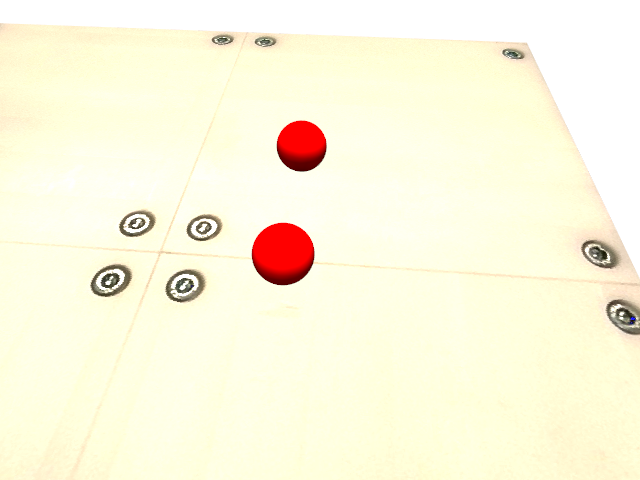
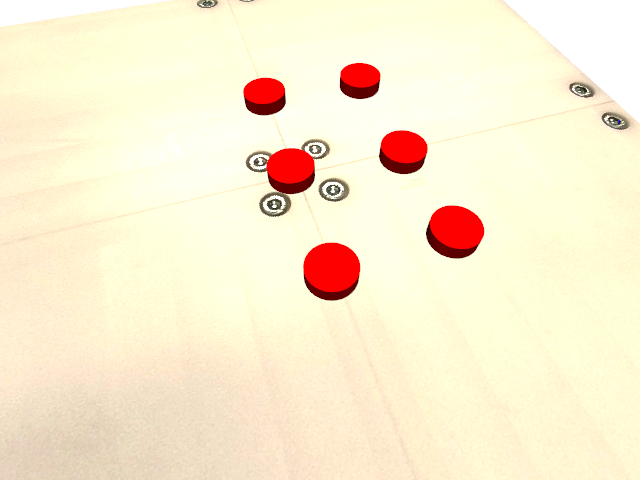
replace sphere by cylinder

diff --git a/collect_data.py b/collect_data.py
@@ -10,8 +10,9 @@ ORIGIN = np.array([0, 0, 0], dtype=float)
 
 # 在3D场景中放置一个红色小球和相机，并拍摄一张图像。
 def take_photo(
-        sphere_position_list,  # sphere_position (list or tuple): 小球的中心坐标，如 [x, y, z]。
-        sphere_radius,  # 小球半径
+        cylinder_position_list,
+        cylinder_radius,
+        cylinder_height,
         camera_position,  # camera_position (list or tuple): 相机的位置，如 [x, y, z]。
         focal_point,
         view_up,  # view_up (list or tuple): 定义相机上方的方向向量，如 [0, 0, 1] 表示Z轴向上。
@@ -23,7 +24,7 @@ def take_photo(
         filename  # 输出图像的文件名
     ):
 
-    assert len(sphere_position_list) > 0
+    assert len(cylinder_position_list) > 0
 
     # 创建一个空的绘图器（plotter）
     plotter = pv.Plotter(off_screen=True, window_size=image_size)
@@ -39,9 +40,14 @@ def take_photo(
     )
 
     # 2. 创建红色小球并添加到场景
-    for sphere_position in sphere_position_list:
-        sphere = pv.Sphere(radius=sphere_radius, center=sphere_position, phi_resolution=360, theta_resolution=360)
-        plotter.add_mesh(sphere, color='red')
+    for cylinder_position in cylinder_position_list:
+        cylinder = pv.Cylinder(radius=cylinder_radius, 
+                               height=cylinder_height,
+                               center=cylinder_position,
+                               resolution=360,
+                               direction=(0, 0, 1),
+                               capping=True)
+        plotter.add_mesh(cylinder, color='red')
 
     plane_texture = pv.read_texture(plane_texture_path)
     plane = pv.Plane(center=ORIGIN, direction=(0, 0, 1), i_size=plane_size, j_size=plane_size)
@@ -59,9 +65,9 @@ def take_photo(
     plotter.close()
 
 
-def is_sphere_in_frustum(
-    sphere_position,  # 小球中心坐标 [x, y, z]
-    sphere_radius,    # 小球半径
+def is_cylinder_in_frustum(
+    cylinder_position,  # 小球中心坐标 [x, y, z]
+    cylinder_radius,    # 小球半径
     camera_position,  # 相机位置 [x, y, z]
     focal_point,      # 相机焦点 [x, y, z]
     view_up,          # 相机上方向向量 [x, y, z]
@@ -74,7 +80,7 @@ def is_sphere_in_frustum(
     """
     aspect_ratio = image_size[0] / image_size[1]
     # 将输入转换为 numpy 数组
-    sphere_position = np.array(sphere_position, dtype=float)
+    cylinder_position = np.array(cylinder_position, dtype=float)
     camera_position = np.array(camera_position, dtype=float)
     focal_point = np.array(focal_point, dtype=float)
     view_up = np.array(view_up, dtype=float)
@@ -97,25 +103,25 @@ def is_sphere_in_frustum(
     horizontal_fov = vertical_fov * aspect_ratio
 
     # 计算小球中心到相机的向量
-    sphere_to_camera = sphere_position - camera_position
-    distance_to_sphere = np.linalg.norm(sphere_to_camera)
+    cylinder_to_camera = cylinder_position - camera_position
+    distance_to_cylinder = np.linalg.norm(cylinder_to_camera)
 
     # 如果小球在相机后面，直接返回 False
-    projection = np.dot(sphere_to_camera, camera_direction)
+    projection = np.dot(cylinder_to_camera, camera_direction)
     if projection <= 0:
         return False
 
     # 将小球中心向量投影到相机坐标系
-    sphere_to_camera_normalized = sphere_to_camera / distance_to_sphere
+    cylinder_to_camera_normalized = cylinder_to_camera / distance_to_cylinder
 
     # 计算小球中心相对于相机方向的夹角
-    cos_theta = np.dot(sphere_to_camera_normalized, camera_direction)
+    cos_theta = np.dot(cylinder_to_camera_normalized, camera_direction)
     if cos_theta <= 0:
         return False
     theta = np.arccos(cos_theta)
 
     # 计算小球的角半径（考虑小球半径）
-    angular_radius = np.arcsin(min(sphere_radius / distance_to_sphere, 1.0))
+    angular_radius = np.arcsin(min(cylinder_radius / distance_to_cylinder, 1.0))
 
     # 检查垂直方向是否在视锥内
     vertical_half_fov = vertical_fov / 2
@@ -124,8 +130,8 @@ def is_sphere_in_frustum(
 
     # 检查水平方向
     # 投影到右向量和上向量平面，计算水平角度
-    proj_right = np.dot(sphere_to_camera_normalized, right_vector)
-    proj_up = np.dot(sphere_to_camera_normalized, up_vector)
+    proj_right = np.dot(cylinder_to_camera_normalized, right_vector)
+    proj_up = np.dot(cylinder_to_camera_normalized, up_vector)
     theta_horizontal = np.arctan2(proj_right, cos_theta)
     horizontal_half_fov = horizontal_fov / 2
     if abs(theta_horizontal) > (horizontal_half_fov + angular_radius):
@@ -139,24 +145,25 @@ def take_photo_wrapper(idx, image_dir, state_dir):
     # --- 使用示例 ---
     # 设置参数
     plane_size = 20
-    sphere_radius = 0.6
+    cylinder_radius = 0.6
+    cylinder_height = 0.4
 
     start_idx = random.randint(0, 8)
-    sphere_position_list = []
+    cylinder_position_list = []
     for n in range(start_idx, 9):
         i, j = divmod(n, 3)
         x = -3 + i * 3 + random.uniform(-0.2, 0.2)
         y = -3 + j * 3 + random.uniform(-0.2, 0.2)
-        sphere_position = [x, y, sphere_radius]
-        sphere_position_list.append(sphere_position)
+        cylinder_position = [x, y, cylinder_height * 0.5]
+        cylinder_position_list.append(cylinder_position)
     
-    first_sphere_pos = sphere_position_list[0]
-    camera_pos = first_sphere_pos.copy()
+    first_cylinder_pos = cylinder_position_list[0]
+    camera_pos = first_cylinder_pos.copy()
     camera_pos[0] = camera_pos[0] + random.uniform(-2, 2)
     camera_pos[1] = camera_pos[1] + random.uniform(-6, -4)
-    camera_pos[2] = 2 * sphere_radius + random.uniform(5, 10)
+    camera_pos[2] = cylinder_height + random.uniform(5, 10)
 
-    focal_pos = first_sphere_pos.copy()
+    focal_pos = first_cylinder_pos.copy()
     focal_pos[0] = focal_pos[0] + random.uniform(-1, 1)
     focal_pos[1] = focal_pos[1] + random.uniform(-1, 1)
     focal_pos[2] = 0
@@ -166,9 +173,9 @@ def take_photo_wrapper(idx, image_dir, state_dir):
     image_size = (640, 480)
     view_angle_deg = 60.0  # 垂直视锥角度为30度
 
-    if not is_sphere_in_frustum(
-        sphere_position=first_sphere_pos,  # 小球中心坐标 [x, y, z]
-        sphere_radius=sphere_radius,  # 小球半径
+    if not is_cylinder_in_frustum(
+        cylinder_position=first_cylinder_pos,  # 小球中心坐标 [x, y, z]
+        cylinder_radius=cylinder_radius,  # 小球半径
         camera_position=camera_pos,  # 相机位置 [x, y, z]
         focal_point=focal_pos,  # 相机焦点 [x, y, z]
         view_up=view_up_vec,  # 相机上方向向量 [x, y, z]
@@ -181,16 +188,16 @@ def take_photo_wrapper(idx, image_dir, state_dir):
     image_path = os.path.join(image_dir, f"{idx}.png")
 
     camera_front = compute_direction(start=camera_pos, end=focal_pos).tolist()
-    sphere_dir = compute_direction(start=camera_front, end=first_sphere_pos).tolist()
+    cylinder_dir = compute_direction(start=camera_front, end=first_cylinder_pos).tolist()
 
-    distance = np.linalg.norm(np.array(camera_pos) - np.array(first_sphere_pos)).item()
+    distance = np.linalg.norm(np.array(camera_pos) - np.array(first_cylinder_pos)).item()
 
     data = {
-        "sphere_pos": sphere_position_list[0],
+        "cylinder_pos": first_cylinder_pos,
         "focal_pos": focal_pos,
         "camera_pos": camera_pos,
         "camera_front": camera_front,
-        "sphere_dir": sphere_dir,
+        "cylinder_dir": cylinder_dir,
         "distance": distance
     }
 
@@ -199,8 +206,9 @@ def take_photo_wrapper(idx, image_dir, state_dir):
     save_json(data, json_path)
 
     # 调用函数来完成任务
-    take_photo(sphere_position_list=sphere_position_list,
-               sphere_radius=sphere_radius,
+    take_photo(cylinder_position_list=cylinder_position_list,
+               cylinder_radius=cylinder_radius,
+               cylinder_height=cylinder_height,
                camera_position=camera_pos,
                focal_point=focal_pos,
                view_up=view_up_vec,

diff --git a/model.py b/model.py
@@ -14,9 +14,7 @@ class VisionBackbone(nn.Module):
 
     @torch.inference_mode()
     def forward(self, x):
-        batch_size = x.shape[0]
         x = self.feature_extractor(x)["out"]
-        x = x.view(batch_size, -1)
         return x
 
 
@@ -78,13 +76,12 @@ class FeatureFuser(nn.Module):
 class DirectionModel(nn.Module):
     def __init__(self, d_input, d_model, d_feedforward, out_channels, num_layers, d_direction=3, d_distance=1, dropout=0.3):
         super().__init__()
-        # self.vision = VisionEncoder(out_channels)
+        self.vision = VisionEncoder(out_channels)
         self.fuser = FeatureFuser(d_input=d_input, d_model=d_model, d_feedforward=d_feedforward, num_layers=num_layers,
                                   d_direction=d_direction, d_distance=d_distance, dropout=dropout)
 
     def forward(self, img, camera_pos, camera_front):
-        # img_feature = self.vision(img)
-        img_feature = img
+        img_feature = self.vision(img)
         feature = torch.concatenate([img_feature, camera_pos, camera_front], dim=-1)
         direction, distance = self.fuser(feature)
         return direction, distance
